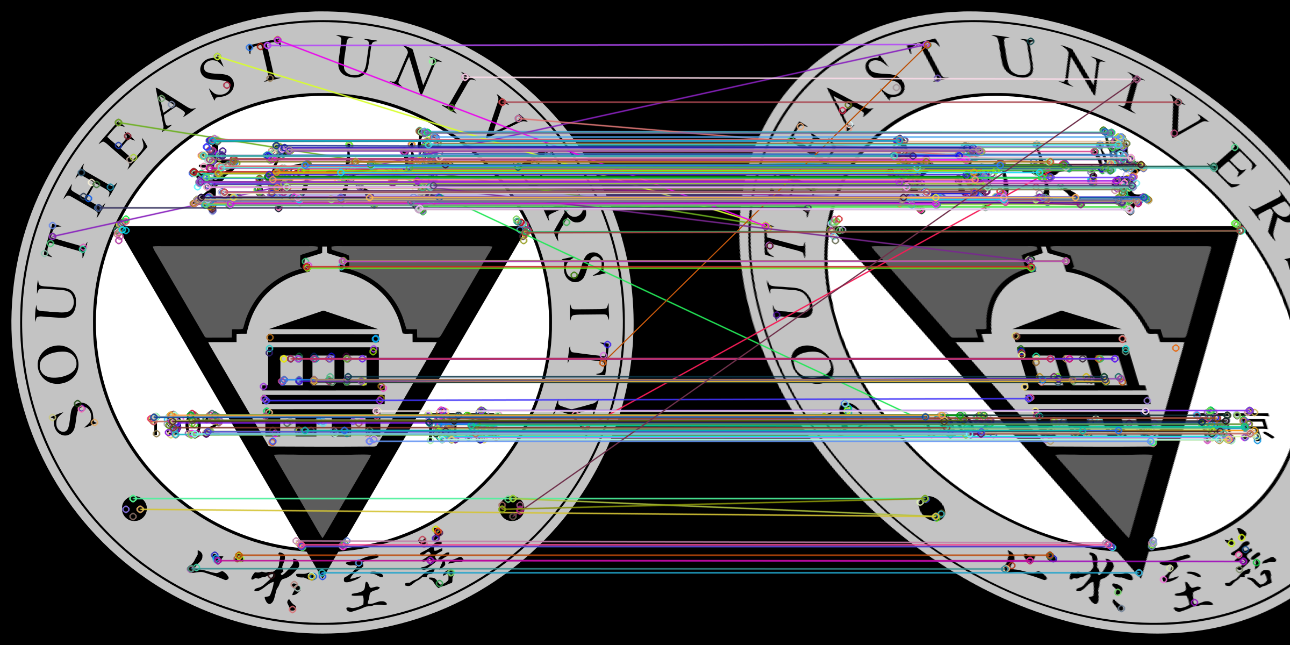
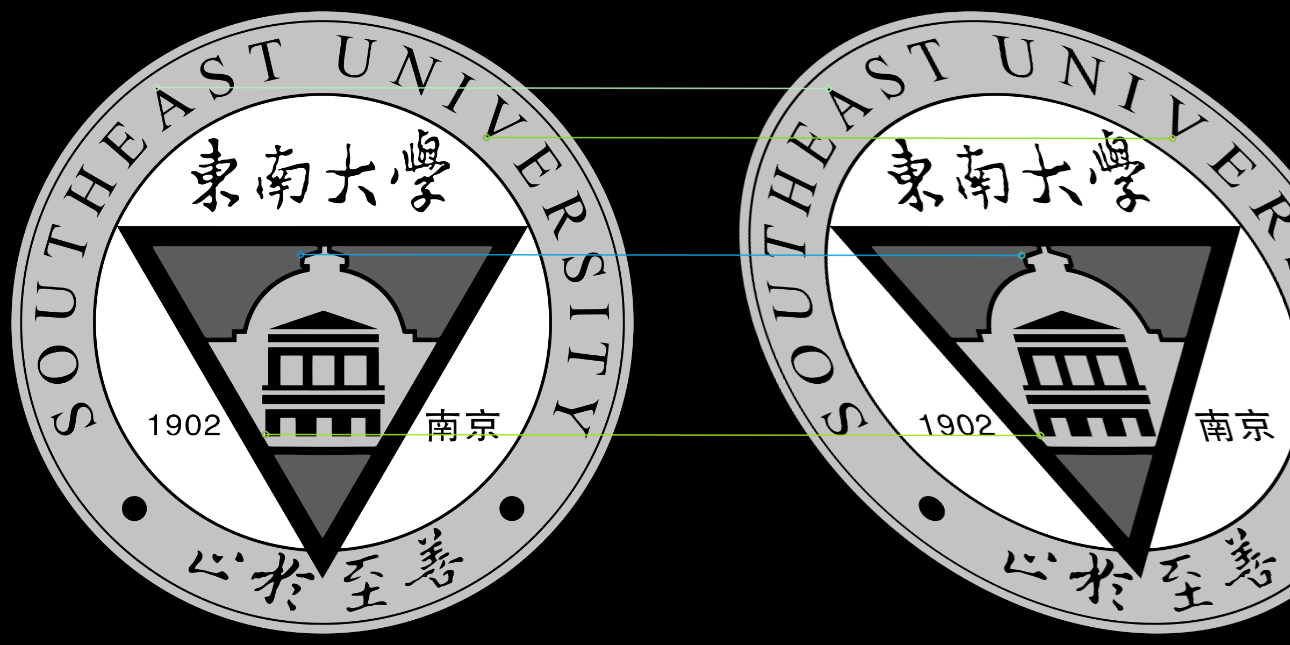
3

diff --git a/DIP/exp1/3/registration.cpp b/DIP/exp1/3/registration.cpp
@@ -2,6 +2,8 @@
 #include <opencv2/features2d.hpp>
 #include <opencv2/calib3d.hpp>
 #include <iostream>
+#include <fstream>
+#include <sstream>
 
 int main(int argc, char **argv)
 {
@@ -9,10 +11,13 @@ int main(int argc, char **argv)
     std::string img1_path = "../SEU_gray.png";
     std::string img2_path = "../2/custom_shear.png";
 
-    if (argc == 3)
+    std::string matches_path;
+    if (argc >= 3)
     {
         img1_path = argv[1];
         img2_path = argv[2];
+        if (argc >= 4)
+            matches_path = argv[3];
     }
 
     // === Step 1. 固定输入 ===
@@ -25,31 +30,79 @@ int main(int argc, char **argv)
         return -1;
     }
 
-    // === Step 2. 提取 ORB 特征点 ===
+    // === Step 2. 提取 ORB 特征点（如果没有提供匹配文件） ===
     auto orb = cv::ORB::create(1000);
     std::vector<cv::KeyPoint> k1, k2;
     cv::Mat d1, d2;
     orb->detectAndCompute(img1, cv::noArray(), k1, d1);
     orb->detectAndCompute(img2, cv::noArray(), k2, d2);
 
-    if (d1.empty() || d2.empty())
-    {
-        std::cerr << "❌ 特征提取失败！" << std::endl;
-        return -1;
-    }
-
-    // === Step 3. 特征匹配（KNN + 比率测试）===
-    cv::BFMatcher matcher(cv::NORM_HAMMING);
-    std::vector<std::vector<cv::DMatch>> knn_matches;
-    matcher.knnMatch(d1, d2, knn_matches, 2);
-
     std::vector<cv::DMatch> good;
-    for (auto &m : knn_matches)
+    bool use_matches_file = !matches_path.empty();
+
+    if (!use_matches_file)
     {
-        if (m.size() < 2)
-            continue;
-        if (m[0].distance < 0.75 * m[1].distance)
-            good.push_back(m[0]);
+        if (d1.empty() || d2.empty())
+        {
+            std::cerr << "❌ 特征提取失败！" << std::endl;
+            return -1;
+        }
+
+        // === Step 3. 特征匹配（KNN + 比率测试）===
+        cv::BFMatcher matcher(cv::NORM_HAMMING);
+        std::vector<std::vector<cv::DMatch>> knn_matches;
+        matcher.knnMatch(d1, d2, knn_matches, 2);
+
+        for (auto &m : knn_matches)
+        {
+            if (m.size() < 2)
+                continue;
+            if (m[0].distance < 0.75 * m[1].distance)
+                good.push_back(m[0]);
+        }
+    }
+    else
+    {
+        // 从文本文件读取匹配点，每行格式：x1 y1 x2 y2（允许空格或逗号分隔）
+        std::ifstream ifs(matches_path);
+        if (!ifs)
+        {
+            std::cerr << "❌ 无法打开匹配点文件：" << matches_path << std::endl;
+            return -1;
+        }
+
+        std::string line;
+        std::vector<cv::KeyPoint> k1_file, k2_file;
+        int idx = 0;
+        while (std::getline(ifs, line))
+        {
+            if (line.empty())
+                continue;
+            // 替换逗号为空格，方便解析
+            for (auto &c : line)
+                if (c == ',')
+                    c = ' ';
+            std::istringstream ss(line);
+            double x1, y1, x2, y2;
+            if (!(ss >> x1 >> y1 >> x2 >> y2))
+                continue; // 忽略解析失败的行
+
+            k1_file.emplace_back(cv::KeyPoint(cv::Point2f(static_cast<float>(x1), static_cast<float>(y1)), 1.f));
+            k2_file.emplace_back(cv::KeyPoint(cv::Point2f(static_cast<float>(x2), static_cast<float>(y2)), 1.f));
+            good.emplace_back(cv::DMatch(idx, idx, 0));
+            idx++;
+        }
+
+        if (good.empty())
+        {
+            std::cerr << "❌ 匹配点文件中没有有效匹配。" << std::endl;
+            return -1;
+        }
+
+        // 用文件中的 keypoints 替换原始 k1/k2，用于绘图和后续构造 p1/p2
+        k1 = k1_file;
+        k2 = k2_file;
+        std::cout << "从文件读取到 " << good.size() << " 对匹配点。" << std::endl;
     }
 
     std::cout << "检测到 " << good.size() << " 个匹配点。" << std::endl;

diff --git a/DIP/exp1/1/custom.cpp b/DIP/exp1/1/custom.cpp
@@ -80,9 +80,12 @@ int main()
         return -1;
     }
 
+    cv::Mat ez;
+    cv::resize(src, ez, cv::Size(src.cols * 2, src.rows * 2), 0, 0, cv::INTER_LINEAR);
     cv::Mat nn = nearestNeighborResize(src, cv::Size(src.cols * 2, src.rows * 2));
     cv::Mat bl = bilinearResize(src, cv::Size(src.cols * 2, src.rows * 2));
 
+    cv::imwrite("./easy_resize.png", ez);
     cv::imwrite("./resize_nn.png", nn);
     cv::imwrite("./resize_bilinear.png", bl);
 
@@ -97,6 +100,11 @@ int main()
               << std::setw(10) << src.cols
               << std::setw(10) << src.rows
               << std::setw(10) << std::fixed << std::setprecision(2) << get_file_size_kb("../SEU_gray.png") << "\n";
+
+    std::cout << std::left << std::setw(20) << "OpenCV Bilinear"
+              << std::setw(10) << ez.cols
+              << std::setw(10) << ez.rows
+              << std::setw(10) << std::fixed << std::setprecision(2) << get_file_size_kb("./easy_resize.png") << "\n";
 
     std::cout << std::left << std::setw(20) << "Nearest Neighbor"
               << std::setw(10) << nn.cols
